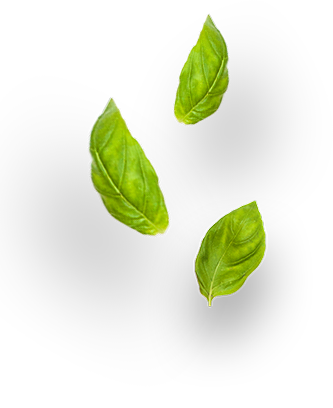
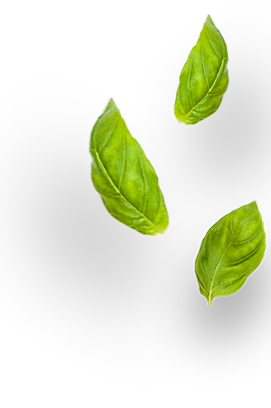
fix side scroll on subscribe section

Changed region(s): [[0.2657, 0.2353, 1.0, 0.8529], [0.5018, 0.0294, 0.8561, 0.3235], [0.8561, 0.2353, 1.0, 0.4118]]

diff --git a/JS-Module2/Homework/assets/css/subscribe.css b/JS-Module2/Homework/assets/css/subscribe.css
@@ -1,5 +1,7 @@
 #subscribe {
   background-color: #27292c;
+
+  z-index: 100;
 }
 
 #subscribe h2 {
@@ -88,5 +90,5 @@
 .subscribe-leaf-right {
   position: absolute;
   top: -56px;
-  right: -60px;
+  right: 0px;
 }

diff --git a/JS-Module2/Homework/assets/css/header.css b/JS-Module2/Homework/assets/css/header.css
@@ -4,6 +4,7 @@ header {
   background-size: cover;
   background-position: center;
   padding-bottom: 209px;
+  overflow: hidden;
 }
 
 .nav {

diff --git a/JS-Module2/Homework/assets/css/moreinfo.css b/JS-Module2/Homework/assets/css/moreinfo.css
@@ -1,6 +1,7 @@
 #moreinfo {
   padding: 100px 0 17px 0;
   background-color: #27292c;
+  overflow: hidden;
 }
 
 #moreinfo h2 {

diff --git a/JS-Module2/Homework/assets/css/information.css b/JS-Module2/Homework/assets/css/information.css
@@ -1,3 +1,7 @@
+#information {
+  overflow: hidden;
+}
+
 #information p {
   font-size: 19px;
   line-height: 25px;

diff --git a/JS-Module2/Homework/assets/css/discount.css b/JS-Module2/Homework/assets/css/discount.css
@@ -1,5 +1,6 @@
 #discount {
   padding-bottom: 20px;
+  overflow: hidden;
 }
 
 .discount-items {

diff --git a/JS-Module2/Homework/assets/css/items.css b/JS-Module2/Homework/assets/css/items.css
@@ -1,5 +1,6 @@
 #items {
   padding: 90px 0 0 0;
+  overflow: hidden;
 }
 
 #items h2 {
